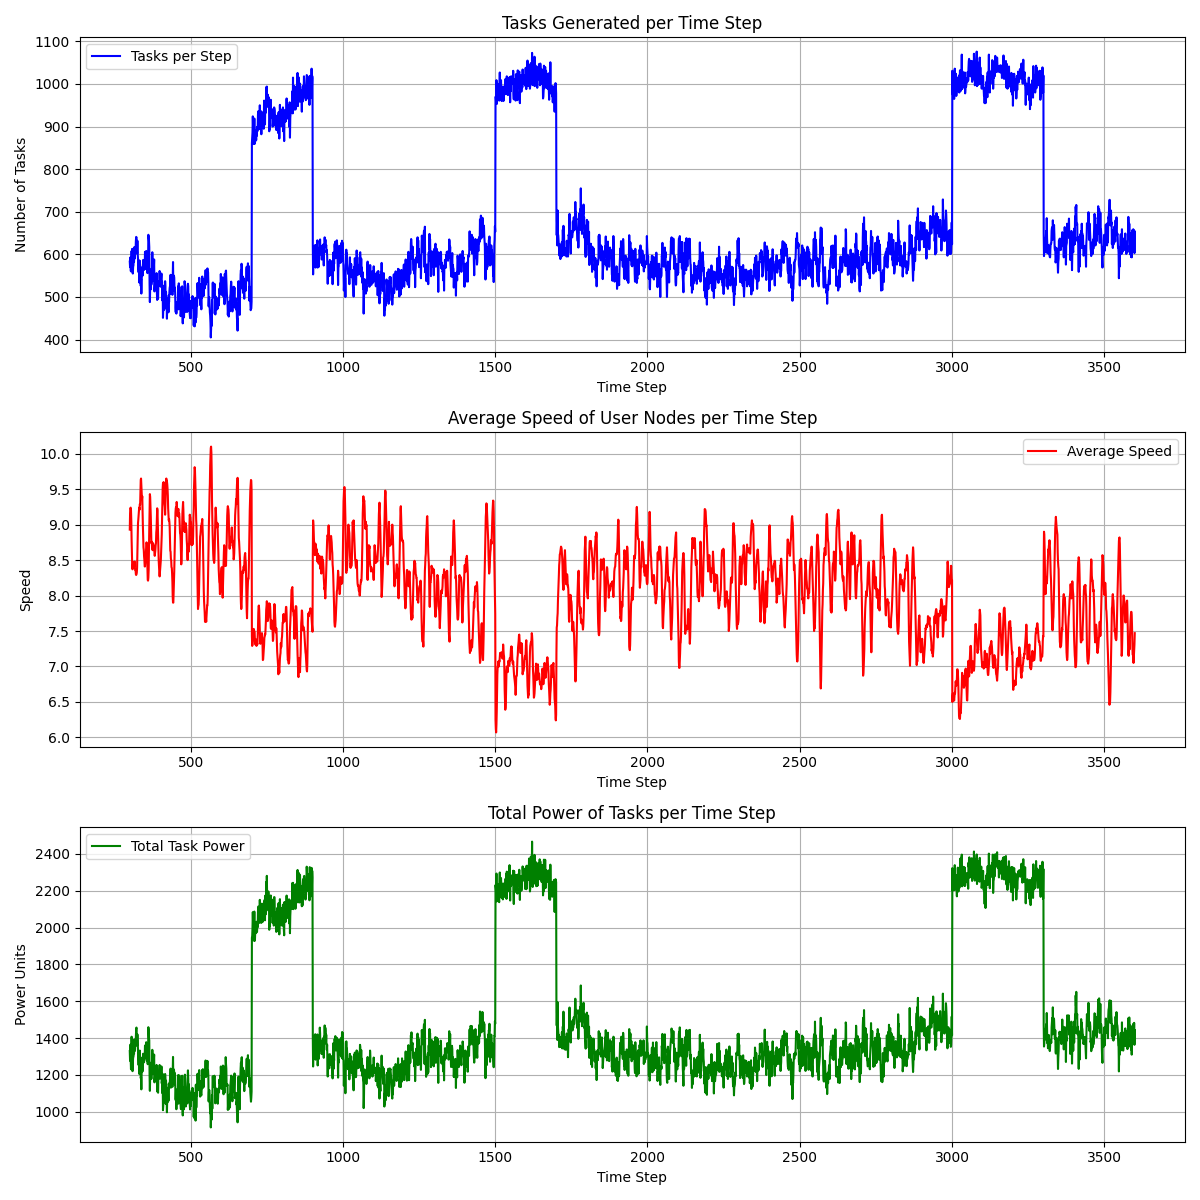
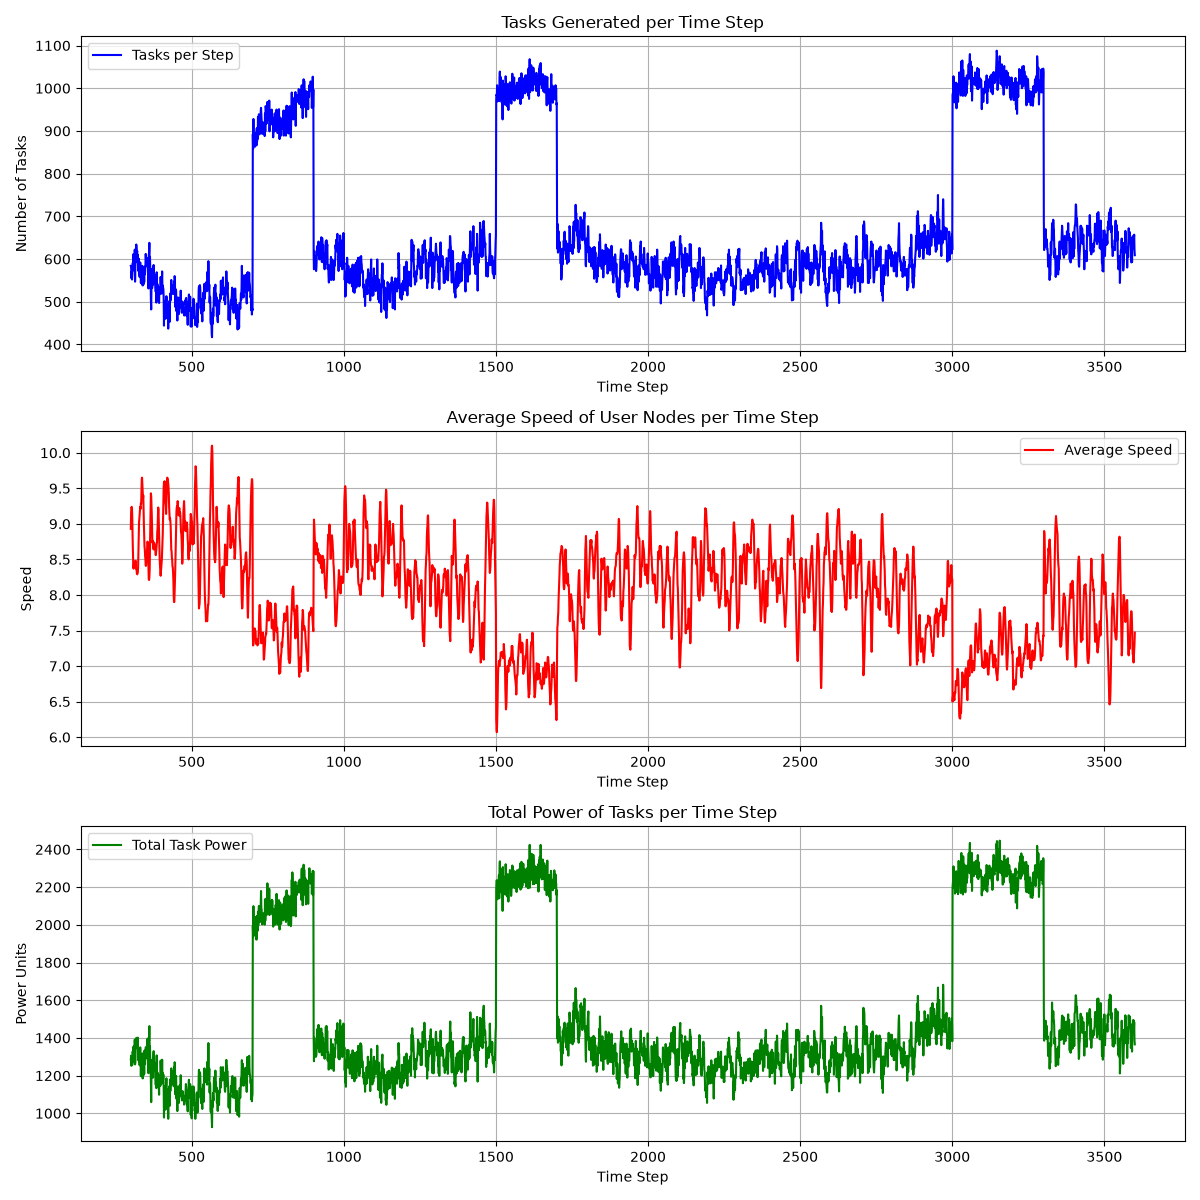
convert "all_fogs" into a dictionary

diff --git a/main.py b/main.py
@@ -108,15 +108,15 @@ def run_one(params):
 
 if __name__ == "__main__":
     algorithms = [
-        # Config.ZoneManagerConfig.ALGORITHM_RANDOM,
-        # Config.ZoneManagerConfig.ALGORITHM_HEURISTIC,
-        # Config.ZoneManagerConfig.ALGORITHM_ONLY_CLOUD,
-        # Config.ZoneManagerConfig.ALGORITHM_ONLY_FOG,
-        # Config.ZoneManagerConfig.ALGORITHM_ONLY_LOCAL,
-        # Config.ZoneManagerConfig.ALGORITHM_DEEP_RL,
+        Config.ZoneManagerConfig.ALGORITHM_RANDOM,
+        Config.ZoneManagerConfig.ALGORITHM_HEURISTIC,
+        Config.ZoneManagerConfig.ALGORITHM_ONLY_CLOUD,
+        Config.ZoneManagerConfig.ALGORITHM_ONLY_FOG,
+        Config.ZoneManagerConfig.ALGORITHM_ONLY_LOCAL,
+        Config.ZoneManagerConfig.ALGORITHM_DEEP_RL,
         # Config.ZoneManagerConfig.ALGORITHM_DDPG,
         # Config.ZoneManagerConfig.ALGORITHM_PPO,
-        Config.ZoneManagerConfig.ALGORITHM_SAC,
+        # Config.ZoneManagerConfig.ALGORITHM_SAC,
         # Config.ZoneManagerConfig.ALGORITHM_MADDPG,
         # Config.ZoneManagerConfig.ALGORITHM_GREEDY,
     ]
@@ -163,49 +163,55 @@ if __name__ == "__main__":
     ]
 
     all_results = []
-    # for algorithm in algorithms:
-    #     print(f"=====================================================")
-    #     print(f"=== Start of : {algorithm} ===")
-    #     print(f"=====================================================")
-    #
-    #     tasks_for_current_algo = [(algorithm, m, t, n, at) for m in methods for t in thresholds for n in traffic_noise_profiles for at in attenuationLevels]
-    #
-    #     with ProcessPoolExecutor() as executor:
-    #         futures = {executor.submit(run_one, t): t for t in tasks_for_current_algo}
-    #         for fut in as_completed(futures):
-    #             res = fut.result()
-    #             print(red_bg(f"Finished {res['algorithm']} / {res['method']}"))
-    #             print("SCENARIO\tALGORITHM\tMETHOD\tTOTAL\tCOMPLETED\tMISSED\tMIGRATIONS\tCLOUD")
-    #             print(
-    #                 f"Rainy\t{res['algorithm']}\t{res['method']}\t"
-    #                 f"{res['total']}\t{res['completed']}\t{res['missed']}\t"
-    #                 f"{res['migrations']}\t{res['cloud']}"
-    #             )
-    #             all_results.append(res)
-    #
-    #     print(f"--- End of simulations for : {algorithm} ---")
-    #
-    #
+    for algorithm in algorithms:
+        # print(f"=====================================================")
+        # print(f"=== Start of : {algorithm} ===")
+        # print(f"=====================================================")
 
-    tasks_for_current_algo = [(algorithm, m, t, n, at, city, lc, eht, bsf) for algorithm in algorithms for m in methods
-                              for t
-                              in
-                              thresholds for n in
-                              traffic_noise_profiles for at in attenuationLevels for city in cities for lc in
-                              local_cores
-                              for eht in enable_hard_tasks_options
-                              for bsf in baseline_parallel_freq_options
-                              ]
+        tasks_for_current_algo = [(algorithm, m, t, n, at, city, lc, eht, bsf) for m in
+                                  methods
+                                  for t in thresholds for n in
+                                  traffic_noise_profiles for at in attenuationLevels for city in cities for lc in
+                                  local_cores
+                                  for eht in enable_hard_tasks_options
+                                  for bsf in baseline_parallel_freq_options
+                                  ]
+        with ProcessPoolExecutor() as executor:
+            futures = {executor.submit(run_one, t): t for t in tasks_for_current_algo}
+            for fut in as_completed(futures):
+                res = fut.result()
+                print(red_bg(f"Finished {res['algorithm']} / {res['method']}"))
+                print("SCENARIO\tALGORITHM\tMETHOD\tTOTAL\tCOMPLETED\tMISSED\tMIGRATIONS\tCLOUD")
+                print(
+                    f"Rainy\t{res['algorithm']}\t{res['method']}\t"
+                    f"{res['total']}\t{res['completed']}\t{res['missed']}\t"
+                    f"{res['migrations']}\t{res['cloud']}"
+                )
+                all_results.append(res)
 
-    with ProcessPoolExecutor() as executor:
-        futures = {executor.submit(run_one, t): t for t in tasks_for_current_algo}
-        for fut in as_completed(futures):
-            res = fut.result()
-            print(red_bg(f"Finished {res['algorithm']} / {res['method']}"))
-            print("SCENARIO\tALGORITHM\tMETHOD\tTOTAL\tCOMPLETED\tMISSED\tMIGRATIONS\tCLOUD")
-            print(
-                f"Rainy\t{res['algorithm']}\t{res['method']}\t"
-                f"{res['total']}\t{res['completed']}\t{res['missed']}\t"
-                f"{res['migrations']}\t{res['cloud']}"
-            )
-            all_results.append(res)
+        print(f"--- End of simulations for : {algorithm} ---")
+
+
+
+    # tasks_for_current_algo = [(algorithm, m, t, n, at, city, lc, eht, bsf) for algorithm in algorithms for m in methods
+    #                           for t
+    #                           in
+    #                           thresholds for n in
+    #                           traffic_noise_profiles for at in attenuationLevels for city in cities for lc in
+    #                           local_cores
+    #                           for eht in enable_hard_tasks_options
+    #                           for bsf in baseline_parallel_freq_options
+    #                           ]
+    #
+    # with ProcessPoolExecutor() as executor:
+    #     futures = {executor.submit(run_one, t): t for t in tasks_for_current_algo}
+    #     for fut in as_completed(futures):
+    #         res = fut.result()
+    #         print(red_bg(f"Finished {res['algorithm']} / {res['method']}"))
+    #         print("SCENARIO\tALGORITHM\tMETHOD\tTOTAL\tCOMPLETED\tMISSED\tMIGRATIONS\tCLOUD")
+    #         print(
+    #             f"Rainy\t{res['algorithm']}\t{res['method']}\t"
+    #             f"{res['total']}\t{res['completed']}\t{res['missed']}\t"
+    #             f"{res['migrations']}\t{res['cloud']}"
+    #         )
+    #         all_results.append(res)

diff --git a/controllers/Simulator/simulator_ppo.py b/controllers/Simulator/simulator_ppo.py
@@ -192,8 +192,8 @@ class SimulatorPPO(Simulator):
                         if rl_zm and isinstance(rl_zm, DeepRLZoneManagerPPO):
 
                             # 1. Calculate REAL reward using the new compute function
-                            all_fogs_list = list(self.fixed_fog_nodes.values()) + list(self.mobile_fog_nodes.values())
-                            real_reward = rl_zm.env._compute_reward(task, task.executor, all_fogs_list)
+                            all_fogs_dict = {**self.fixed_fog_nodes, **self.mobile_fog_nodes}
+                            real_reward = rl_zm.env._compute_reward(task, task.executor, all_fogs_dict)
                             self.metrics.add_reward(real_reward)
 
                             # 2. Store the actual experience including specific PPO outputs
